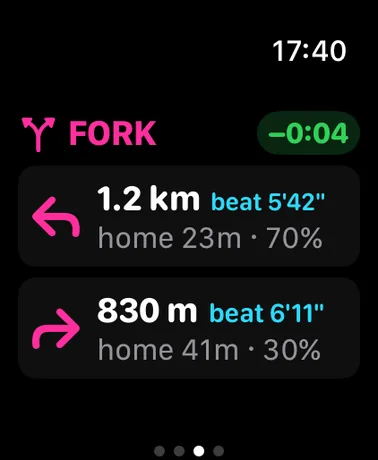
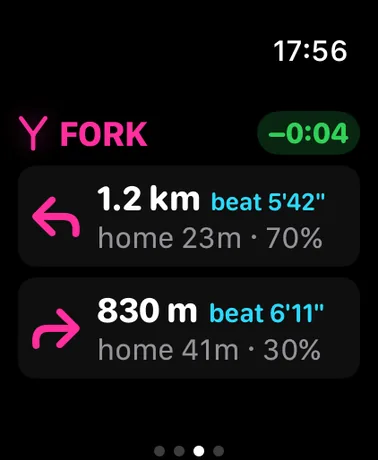
Pin the planner's send action; fix the fork rule; themed screenshots
The Route tab's primary action was inside the scrolling choices list,
which put it under the tab bar once a few segments were offered — the
screenshot caught it half-hidden. "Send route to watch" is now a
pinned bar above the tab bar, a gradient-filled hero button, with the
on-watch summary and Clear beside it.

The fork rule's branches converged instead of diverging: rotated
capsules pivot about their own edges, so the two ticks crossed. It is
now drawn as a single path — a stem that splits at its end, like the
website's.

Gallery takes the themed captures, adding a ninth figure for the
tapped-segment card on the Network map.

Claude-Session: https://claude.ai/code/session_013hxJGJS8MZDGxWRnEhfesp

Changed region(s): [[0.0291, 0.2435, 0.4074, 0.3348], [0.7857, 0.0913, 0.9312, 0.1522], [0.7275, 0.0913, 0.7566, 0.1522]]

diff --git a/FunRun/Route/RoutePlannerView.swift b/FunRun/Route/RoutePlannerView.swift
@@ -121,6 +121,8 @@ struct RoutePlannerView: View {
                     .padding(.top, 8)
             }
             candidateList
+                .frame(maxHeight: 260)
+            sendBar
         }
     }
 
@@ -248,33 +250,51 @@ struct RoutePlannerView: View {
                 }
             }
 
-            Section {
-                Button {
-                    sendToWatch()
-                } label: {
-                    Label("Send route to watch", systemImage: "applewatch")
-                        .font(.body.weight(.semibold))
-                }
-                .disabled(planner.legs.isEmpty)
-
-                if let sentPlanSummary {
-                    HStack {
-                        Text("On watch: \(sentPlanSummary)")
-                            .font(.footnote)
-                            .foregroundStyle(.secondary)
-                        Spacer()
-                        Button("Clear", role: .destructive) {
-                            model.sync.clearPlannedRoute()
-                            UserDefaults.standard.removeObject(forKey: Self.sentPlanKey)
-                            self.sentPlanSummary = nil
-                        }
-                        .font(.footnote)
-                    }
-                }
-            }
         }
         .listStyle(.plain)
-        .frame(maxHeight: 300)
+        .gaitwayList()
+    }
+
+    /// The primary action lives outside the scrolling choices, pinned
+    /// above the tab bar — scrolling to reach "send" was a trap.
+    private var sendBar: some View {
+        VStack(spacing: 6) {
+            if let sentPlanSummary {
+                HStack {
+                    Label("On watch: \(sentPlanSummary)", systemImage: "applewatch.radiowaves.left.and.right")
+                        .font(.footnote)
+                        .foregroundStyle(Gaitway.muted)
+                    Spacer()
+                    Button("Clear", role: .destructive) {
+                        model.sync.clearPlannedRoute()
+                        UserDefaults.standard.removeObject(forKey: Self.sentPlanKey)
+                        self.sentPlanSummary = nil
+                    }
+                    .font(.footnote)
+                }
+            }
+            Button {
+                sendToWatch()
+            } label: {
+                Label("Send route to watch", systemImage: "applewatch")
+                    .font(.body.weight(.semibold))
+                    .frame(maxWidth: .infinity)
+                    .padding(.vertical, 12)
+                    .background(
+                        planner.legs.isEmpty
+                            ? AnyShapeStyle(Color.white.opacity(0.08))
+                            : AnyShapeStyle(Gaitway.gradient),
+                        in: RoundedRectangle(cornerRadius: 14)
+                    )
+                    .foregroundStyle(planner.legs.isEmpty ? AnyShapeStyle(Gaitway.muted) : AnyShapeStyle(Color.black))
+            }
+            .buttonStyle(.plain)
+            .disabled(planner.legs.isEmpty)
+        }
+        .padding(.horizontal, 16)
+        .padding(.top, 8)
+        .padding(.bottom, 6)
+        .background(.ultraThinMaterial)
     }
 
     private func returnsToStart(_ candidate: RoutePlanModel.Candidate) -> Bool {

diff --git a/Shared/GaitwayEffects.swift b/Shared/GaitwayEffects.swift
@@ -109,32 +109,37 @@ struct AnimatedForkMark: View {
     }
 }
 
-/// The site's section divider: a lit rule that forks at its end.
+/// The site's section divider: a lit rule that forks at its end. Drawn
+/// as one path so the branches always diverge from the stem's end —
+/// rotated capsules pivot about their own edges and converge instead.
+struct ForkRuleShape: Shape {
+    func path(in rect: CGRect) -> Path {
+        var path = Path()
+        let split = rect.minX + rect.width * 0.66
+        path.move(to: CGPoint(x: rect.minX, y: rect.midY))
+        path.addLine(to: CGPoint(x: split, y: rect.midY))
+        path.addLine(to: CGPoint(x: rect.maxX, y: rect.minY))
+        path.move(to: CGPoint(x: split, y: rect.midY))
+        path.addLine(to: CGPoint(x: rect.maxX, y: rect.maxY))
+        return path
+    }
+}
+
 struct ForkRule: View {
-    var width: CGFloat = 56
+    var width: CGFloat = 76
 
     var body: some View {
-        HStack(spacing: 0) {
-            Capsule()
-                .fill(LinearGradient(
-                    colors: [Color.white.opacity(0.35), Gaitway.cyan],
+        ForkRuleShape()
+            .stroke(
+                LinearGradient(
+                    colors: [Color.white.opacity(0.3), Gaitway.cyan, Gaitway.magenta],
                     startPoint: .leading,
                     endPoint: .trailing
-                ))
-                .frame(width: width, height: 2)
-            ZStack(alignment: .leading) {
-                Capsule()
-                    .fill(Gaitway.cyan)
-                    .frame(width: 16, height: 2)
-                    .rotationEffect(.degrees(-26), anchor: .leading)
-                Capsule()
-                    .fill(Gaitway.magenta)
-                    .frame(width: 16, height: 2)
-                    .rotationEffect(.degrees(26), anchor: .leading)
-            }
-            .frame(width: 16, height: 16)
-        }
-        .gaitwayGlow(Gaitway.cyan, radius: 6)
+                ),
+                style: StrokeStyle(lineWidth: 2, lineCap: .round, lineJoin: .round)
+            )
+            .frame(width: width, height: 12)
+            .gaitwayGlow(Gaitway.cyan, radius: 6)
     }
 }
 

diff --git a/docs/index.html b/docs/index.html
@@ -320,6 +320,7 @@ section:nth-of-type(even) h2 .km{
 .shots .rv:nth-child(6){transition-delay:.3s}
 .shots .rv:nth-child(7){transition-delay:.36s}
 .shots .rv:nth-child(8){transition-delay:.42s}
+.shots .rv:nth-child(9){transition-delay:.48s}
 
 @media (prefers-reduced-motion:reduce){
   .fork-viz .stem,.fork-viz .bl,.fork-viz .br{animation:none;stroke-dashoffset:0}
@@ -591,6 +592,10 @@ footer .foot-logo{width:44px;height:44px;border-radius:50%;opacity:.9;margin-bot
     <figure class="phone">
       <img src="shots/phone-network.webp" alt="iPhone Network tab: the run network drawn as neon segments joined at fork dots on a dark map" loading="lazy">
       <figcaption>Your network — forks &amp; segments</figcaption>
+    </figure>
+    <figure class="phone">
+      <img src="shots/phone-segment.webp" alt="iPhone Network tab with a segment tapped, showing how often it has been run each way and the best time" loading="lazy">
+      <figcaption>Tap a segment for its history</figcaption>
     </figure>
     <figure class="phone">
       <img src="shots/phone-route.webp" alt="iPhone Route tab: building a route by picking coloured segments, with distance and time totals" loading="lazy">
